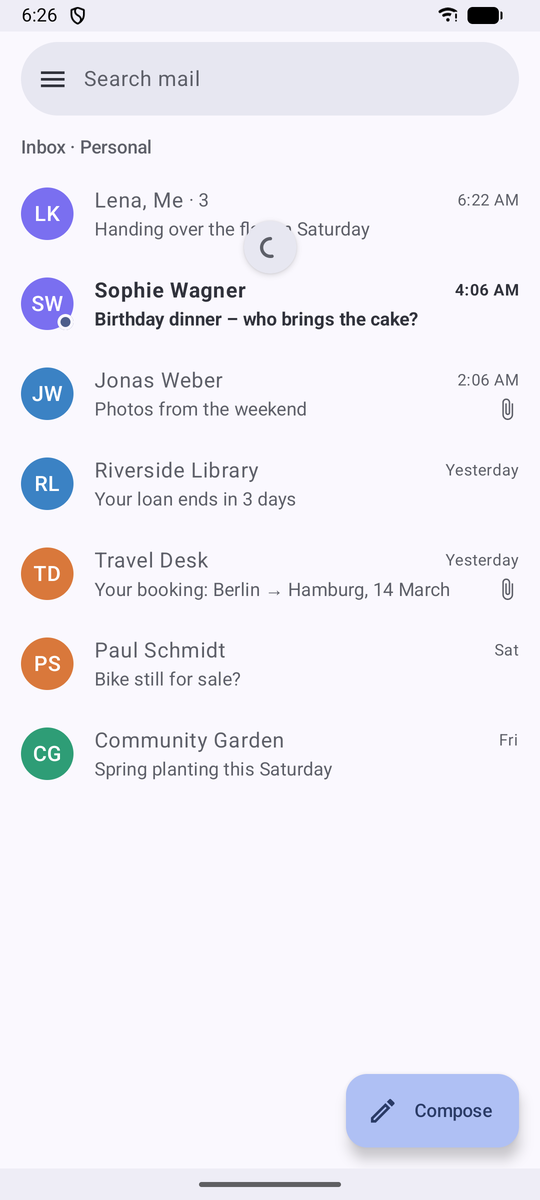
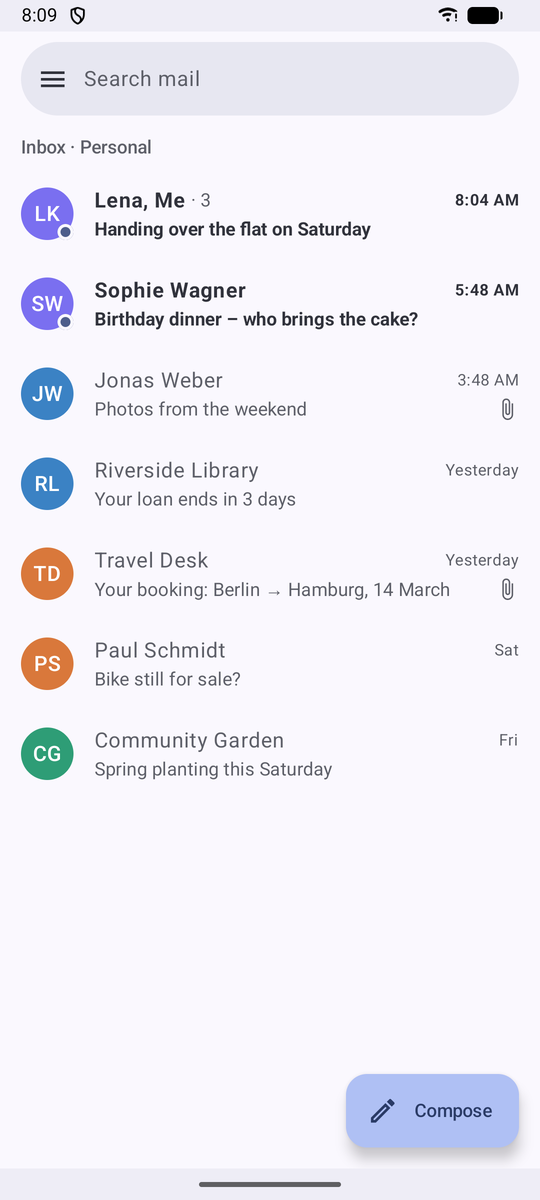
Play Store vorbereiten: Store-Texte, Grafiken, Datenschutzerklärung
- fastlane/metadata/android (de-DE, en-US): Titel, Kurz- und Langbeschreibung,
  App-Symbol 512 px, Titelgrafik, Telefon- und Tablet-Fotos im Format 2:1
- docs/privacy.md: Datenschutzerklärung auf Englisch und Deutsch
- Foto des Posteingangs ohne Lade-Kreis neu aufgenommen

diff --git a/docs/privacy.md b/docs/privacy.md
@@ -1,0 +1,87 @@
+**English** · [Deutsch](#datenschutzerklärung)
+
+# Privacy policy – E-Mail for Android
+
+Last updated: 24 November 2026
+
+E-Mail is an email app for Android (app ID `io.github.digistalter.email`). It is published in Google Play by DIGISTALTER GmbH, https://www.digistalter.de, who is responsible for this policy and can be contacted there.
+
+## In short
+
+The app has no server of its own. Your mail, your login details and your settings stay on your device and go only to the mail servers of the provider you set up yourself. We do not receive, collect, sell or share any of your data. There is no advertising, no analytics and no tracking.
+
+## What the app processes, and where
+
+- **Email address, user name and password** of each account you add. They are stored only on your device; the password is encrypted with the Android Keystore. They are sent only to the IMAP and SMTP servers of your mail provider, over an encrypted connection (SSL/TLS or STARTTLS), to sign in.
+- **Your mail** (messages, attachments, contacts in the address fields). The app downloads it from your provider and keeps a copy on your device so you can read it; mail you write is sent through your provider's SMTP server.
+- **Finding the server settings.** When you add an account, the app looks up the settings for your domain: in its built-in list, at your provider's autoconfiguration address (for example `autoconfig.<your domain>`), in the Thunderbird configuration database (`autoconfig.thunderbird.net`) and through DNS. Your provider's own autoconfiguration address receives your email address (the usual way, as in Thunderbird); the Thunderbird database and DNS receive only the domain. Your password is never sent for this.
+- **External images** in HTML mail are blocked until you allow them, so senders cannot see when you open a mail. If you allow them, the images are loaded from the sender's servers.
+
+## What the app does not do
+
+- No account with us, no registration.
+- No analytics, crash reporting, advertising or tracking libraries.
+- No cloud backup of your data (Android backup is switched off for the app).
+
+## Permissions
+
+- **Internet and network state:** to talk to your mail provider and to retry when the connection returns.
+- **Notifications:** to tell you about new mail; you can switch them off in the app or in Android's settings.
+- **Run at start-up and in the foreground:** to keep checking for new mail after a restart and, only if you switch on “Notify immediately”, to keep a connection to your provider open.
+
+## Deleting your data
+
+Remove an account in the app's settings, or uninstall the app: all data the app stored on your device is deleted. Your mail on your provider's server is not affected.
+
+## Children
+
+The app is not directed at children.
+
+## Changes
+
+If this policy changes, the new version is published at this address.
+
+---
+
+[English](#privacy-policy--e-mail-for-android) · **Deutsch**
+
+# Datenschutzerklärung
+
+Stand: 24. November 2026
+
+E-Mail ist eine E-Mail-App für Android (App-ID `io.github.digistalter.email`). Im Google Play Store wird sie von der DIGISTALTER GmbH angeboten, https://www.digistalter.de. Sie ist für diese Erklärung verantwortlich und dort erreichbar.
+
+## Kurz gesagt
+
+Die App hat keinen eigenen Server. Deine Mails, Zugangsdaten und Einstellungen bleiben auf deinem Gerät und gehen nur an die Mailserver des Anbieters, den du selbst einrichtest. Wir erhalten, sammeln, verkaufen oder teilen keine deiner Daten. Es gibt keine Werbung, keine Statistik und kein Tracking.
+
+## Was die App verarbeitet, und wo
+
+- **E-Mail-Adresse, Benutzername und Passwort** jedes Kontos, das du hinzufügst. Sie werden nur auf deinem Gerät gespeichert, das Passwort verschlüsselt mit dem Android-Schlüsselspeicher. Sie gehen nur an die IMAP- und SMTP-Server deines Mailanbieters, über eine verschlüsselte Verbindung (SSL/TLS oder STARTTLS), um dich anzumelden.
+- **Deine Mails** (Nachrichten, Anhänge, Kontakte in den Adressfeldern). Die App lädt sie von deinem Anbieter und behält eine Kopie auf dem Gerät, damit du sie lesen kannst; was du schreibst, geht über den SMTP-Server deines Anbieters raus.
+- **Servereinstellungen finden.** Beim Hinzufügen eines Kontos sucht die App die Einstellungen für deine Domain: in ihrer eingebauten Liste, bei der Autokonfigurations-Adresse deines Anbieters (zum Beispiel `autoconfig.<deine Domain>`), in der Konfigurationsdatenbank von Thunderbird (`autoconfig.thunderbird.net`) und über DNS. Die Autokonfigurations-Adresse deines eigenen Anbieters erhält dabei deine E-Mail-Adresse (das übliche Verfahren, wie bei Thunderbird); die Thunderbird-Datenbank und DNS erhalten nur die Domain. Dein Passwort wird dafür nie gesendet.
+- **Externe Bilder** in HTML-Mails bleiben blockiert, bis du sie erlaubst, damit Absender nicht sehen, wann du eine Mail öffnest. Erlaubst du sie, werden die Bilder von den Servern des Absenders geladen.
+
+## Was die App nicht tut
+
+- Kein Konto bei uns, keine Registrierung.
+- Keine Bausteine für Statistik, Absturzberichte, Werbung oder Tracking.
+- Keine Cloud-Sicherung deiner Daten (die Android-Sicherung ist für die App abgeschaltet).
+
+## Berechtigungen
+
+- **Internet und Netzwerkstatus:** um mit deinem Mailanbieter zu sprechen und es erneut zu versuchen, wenn die Verbindung zurück ist.
+- **Benachrichtigungen:** um dich über neue Mails zu informieren; abschaltbar in der App oder in den Android-Einstellungen.
+- **Start beim Hochfahren und Vordergrunddienst:** um nach einem Neustart weiter nach neuen Mails zu schauen und, nur wenn du „Sofort benachrichtigen“ einschaltest, eine Verbindung zu deinem Anbieter offen zu halten.
+
+## Daten löschen
+
+Entferne ein Konto in den Einstellungen der App oder deinstalliere die App: Alle Daten, die die App auf deinem Gerät gespeichert hat, werden gelöscht. Deine Mails auf dem Server deines Anbieters bleiben unberührt.
+
+## Kinder
+
+Die App richtet sich nicht an Kinder.
+
+## Änderungen
+
+Ändert sich diese Erklärung, steht die neue Fassung unter dieser Adresse.
